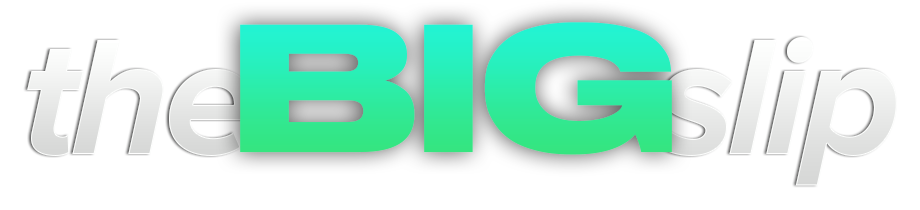
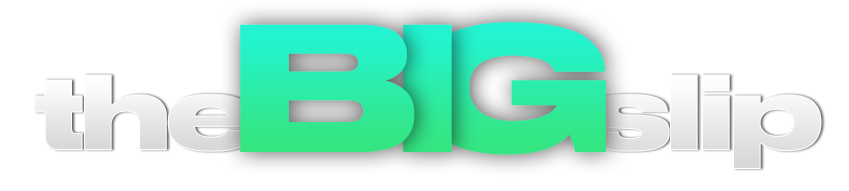
change text, text styles

Changed region(s): [[0.0306, 0.0785, 0.98, 0.8901], [0.8575, 0.288, 0.9494, 0.3927], [0.0, 0.3927, 0.0306, 0.4188]]

diff --git a/src/index.html b/src/index.html
@@ -52,7 +52,7 @@
                   who is jorge nunes?
                 </dt>
                 <dd class="faq-answer">
-                  jorge nunes is an 12 year profes-sional nba & ncaab handicapper. his winning percentages rank among the best in the world in the past 2 seasons. he's also a former professional european basketball player.
+                  Jorge Nunes is a 12 year professional NBA & NCAAB handicapper. His winning percentages rank among the best in the world over the last 3 seasons. He's also a former European professional player.
                 </dd>
 
                 <dt class="faq-question">
@@ -103,14 +103,12 @@
               <div class="swiper-wrapper">
 
                 <div class="plan swiper-slide">
-                  <div class="plan-name">Daily plan</div>
+                  <div class="plan-name">Day Pass</div>
                   <div class="plan-price">$20</div>
                   <a class="btn plan-btn" href="#/ms/signup/5fb5388a902afb00049d476d">sign-up</a>
                   <ul class="plan-features">
-                    <li class="plan-feature">Cool features here</li>
-                    <li class="plan-feature">Woah checkout this feature</li>
-                    <li class="plan-feature">Nice! A feature</li>
-                  </ul>
+                    <li class="plan-feature">Non-recurring</li>
+                   </ul>
                 </div>
 
                 <div class="plan swiper-slide">
@@ -118,10 +116,8 @@
                   <div class="plan-price">$80</div>
                   <a class="btn plan-btn" href="#/ms/signup/5fb6390ba826580004ab5ec3">sign-up</a>
                   <ul class="plan-features">
-                    <li class="plan-feature">Cool features here</li>
-                    <li class="plan-feature">Woah checkout this feature</li>
-                    <li class="plan-feature">Nice! A feature</li>
-                  </ul>
+                    <li class="plan-feature">46% Discount</li>
+                    </ul>
                 </div>
 
                 <div class="plan swiper-slide">
@@ -129,10 +125,8 @@
                   <div class="plan-price">$250</div>
                   <a class="btn plan-btn" href="#/ms/signup/5fb63935af35a70004630820">sign-up</a>
                   <ul class="plan-features">
-                    <li class="plan-feature">Cool features here</li>
-                    <li class="plan-feature">Woah checkout this feature</li>
-                    <li class="plan-feature">Nice! A feature</li>
-                  </ul>
+                    <li class="plan-feature">58% Discount</li>
+                     </ul>
                 </div>
               </div>
             </div>

diff --git a/src/bets.html b/src/bets.html
@@ -1,7 +1,7 @@
 <!DOCTYPE html>
 <html lang="en">
 <head>
-  <title>the big slip</title>
+  <title>the BIG slip</title>
   <meta http-equiv="content-type" content="text/html; charset=UTF-8">
   <meta name="referrer" content="unsafe-url">
   <meta name="format-detection" content="telephone=no">
@@ -36,7 +36,7 @@
         <div class="container">
           <div class="bets-inner grey-inner">
             <div class="text-container">
-              <h2>Lorem ipsum dolor sit amet, consectetur adipisicing elit. A, dicta?</h2>
+              <h2>Daily expertpicks</h2>
               <p>Lorem ipsum dolor sit amet, consectetur adipisicing elit. Assumenda, consectetur deserunt doloribus eum id nisi quibusdam reprehenderit. Accusamus aliquid laudantium minus modi nam, natus, obcaecati perferendis quam, quisquam vero voluptatibus.</p>
 
               <h3>Lorem ipsum dolor sit amet, consectetur.</h3>

diff --git a/src/css/pages/_main.scss b/src/css/pages/_main.scss
@@ -4,7 +4,7 @@
 .faq-wrapper {
 
   .faq-inner {
-    padding-bottom: 20px;
+    padding-bottom: 40px;
 
     & > img {
       width: 100%;
@@ -24,7 +24,6 @@
 
     .faq {
       margin-top: 20px;
-      text-transform: uppercase;
 
       .faq-question {
         display: inline-block;
@@ -61,7 +60,7 @@
 
     .graph {
       max-width: 600px;
-      margin-top: 15px;
+      margin-top: 45px;
       @include hpad(20px);
 
       @include media_interval($media-tablet-landscape, 0) {
